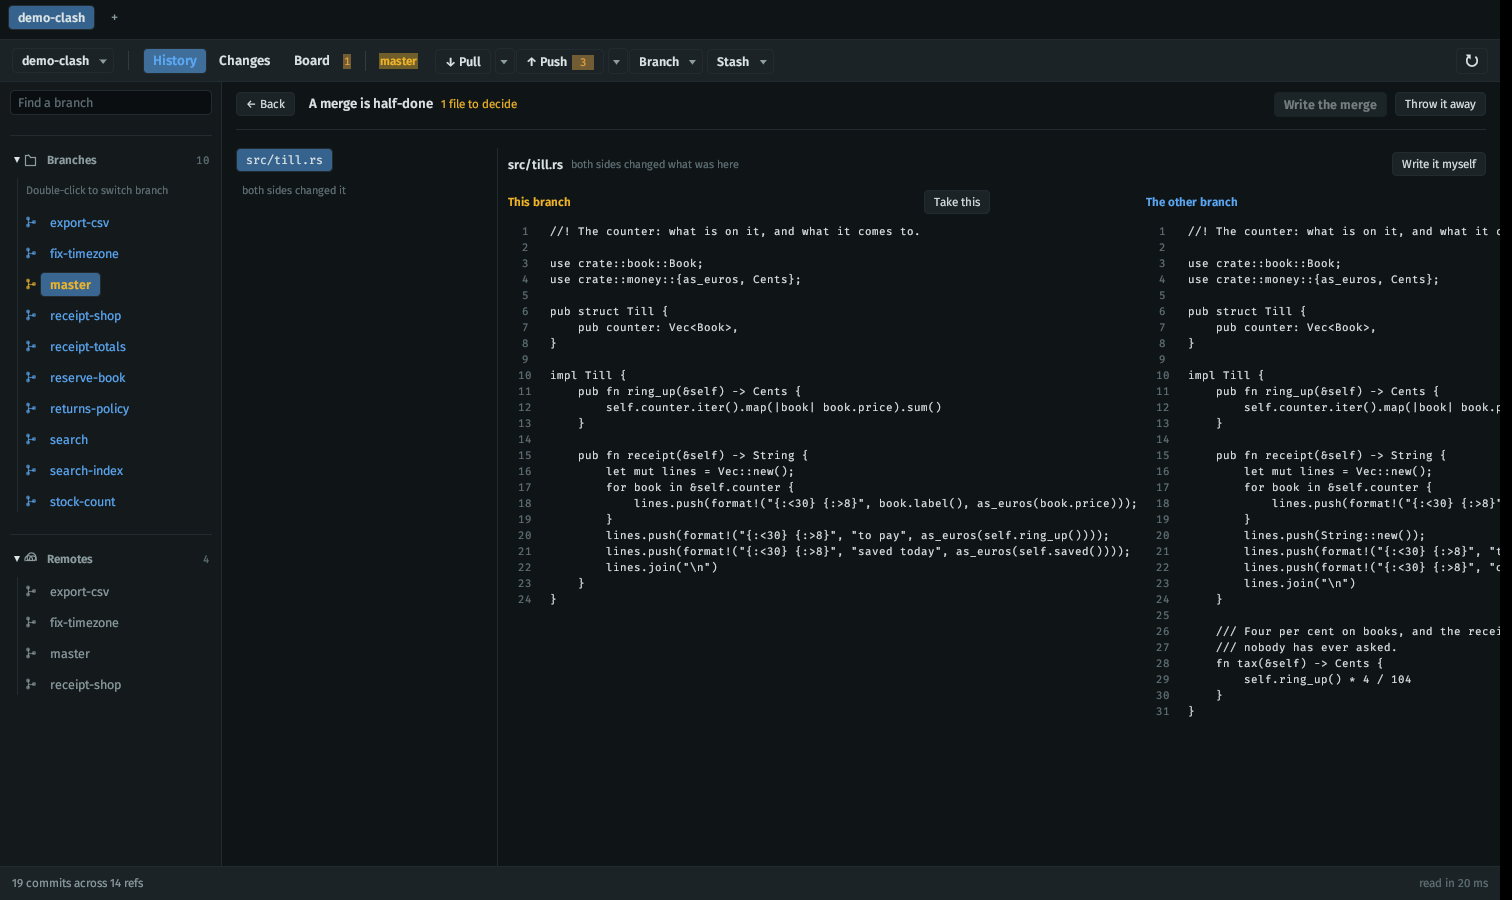
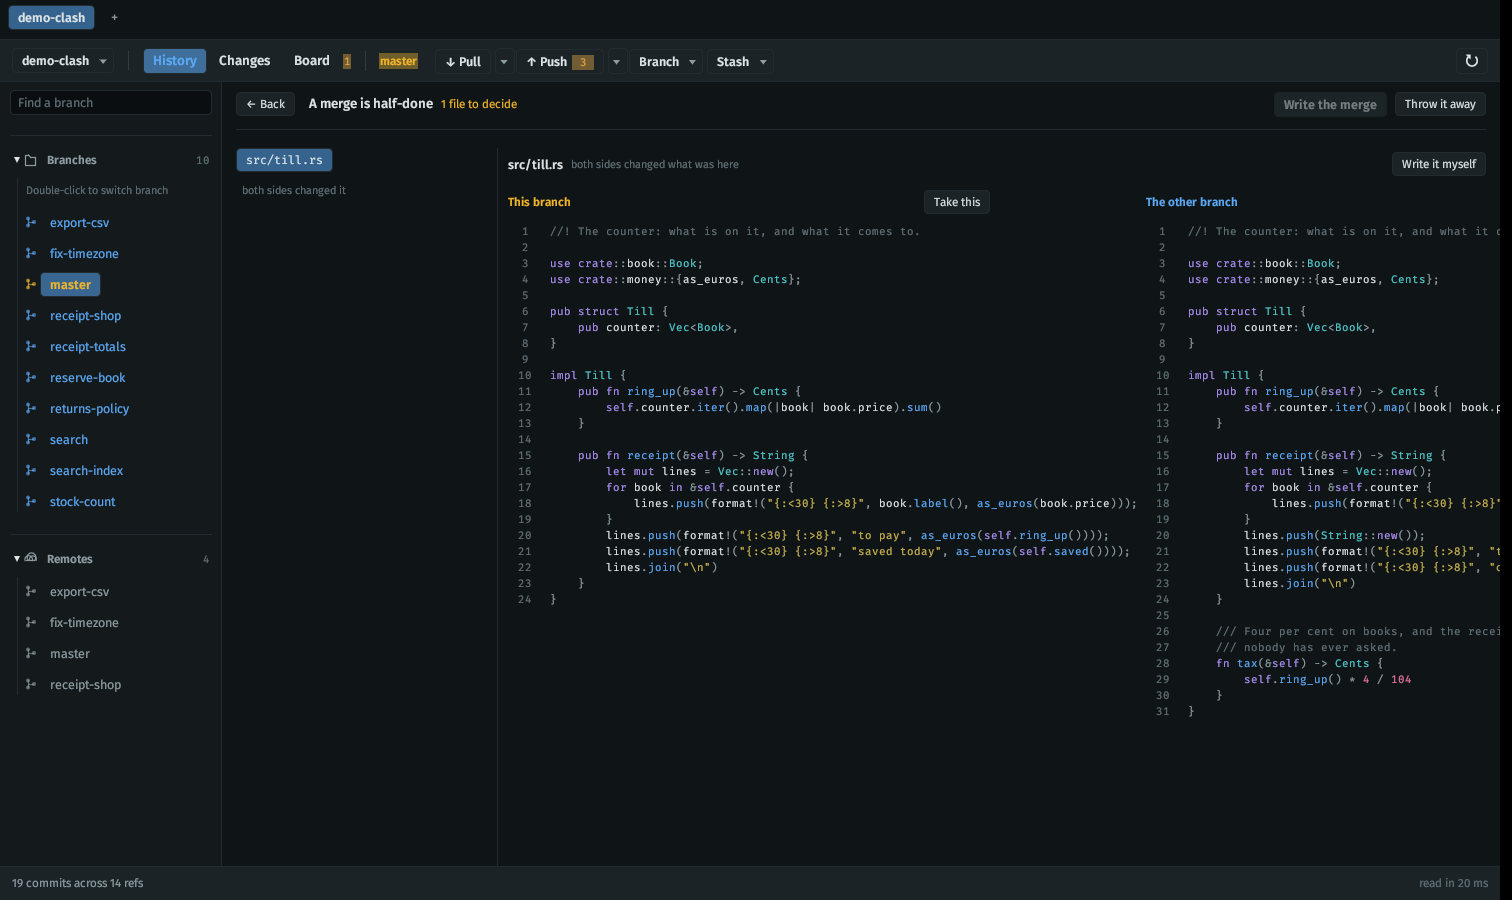
feat: the conflict screen shows code in colour like everywhere else
The two columns of a half-done merge were the one place in the program
where code came out in flat grey. It is also the screen where you are
reading two versions of the same file line against line, which is
exactly where colour helps most: a string that became a number, a
comment that moved, a call that is gone on one side.

- conflict_view::version reads the file for colour and lays each line
  out as one run, the same way the file and diff screens do
- it reads every frame rather than once, because the view keeps nothing
  between frames. That is the cheaper half of what the loop already
  does: every line is a widget whether or not anybody scrolls to it
- syntax::laid is the layout the three screens were each writing out,
  now written once
- the conflict screenshot in the README is taken again, with colour

diff --git a/crates/gitrust-ui/src/conflict_view.rs b/crates/gitrust-ui/src/conflict_view.rs
@@ -20,7 +20,7 @@
 use eframe::egui::{self, RichText};
 use gitrust_core::{Clash, Contents, Half, Side};
 
-use crate::theme;
+use crate::{syntax, theme};
 
 /// What has been asked for.
 pub enum Act {
@@ -310,14 +310,17 @@ fn sides(ui: &mut egui::Ui, half: Half, clash: &Clash, busy: bool, act: &mut Opt
                     });
                 });
                 ui.add_space(4.0);
-                version(ui, contents, label);
+                version(ui, contents, label, &clash.path);
             });
         }
     });
 }
 
 /// One side's version of the file, under whatever that side is called here.
-fn version(ui: &mut egui::Ui, contents: &Contents, label: &str) {
+///
+/// `path` is only for the colour: it is what says whether `#` starts a
+/// comment or an attribute.
+fn version(ui: &mut egui::Ui, contents: &Contents, label: &str, path: &str) {
     // Deliberately not scrolled on its own. Two panes scrolling separately
     // means two files you cannot line up, and lining them up is the whole of
     // what you are doing here.
@@ -337,6 +340,13 @@ fn version(ui: &mut egui::Ui, contents: &Contents, label: &str) {
             );
         }
         Contents::Text(text) => {
+            // Read for colour here, every frame, rather than once when the
+            // clash is loaded: this view keeps nothing between frames. It is
+            // the cheaper half of what this loop already does -- every line
+            // below is a widget of its own, laid out whether or not anybody
+            // scrolls down to it, and that is what costs.
+            let painted = syntax::read(text, path);
+
             egui::ScrollArea::vertical()
                 .id_salt(("version", label))
                 .max_height(ui.available_height() - 20.0)
@@ -359,11 +369,18 @@ fn version(ui: &mut egui::Ui, contents: &Contents, label: &str) {
                                         .color(theme::FAINT),
                                 ),
                             );
-                            ui.label(
-                                RichText::new(line)
-                                    .font(theme::mono(11.0))
-                                    .color(theme::TEXT),
-                            );
+                            match painted.get(index) {
+                                Some(pieces) => {
+                                    ui.label(syntax::laid(pieces, theme::mono(11.0)));
+                                }
+                                None => {
+                                    ui.label(
+                                        RichText::new(line)
+                                            .font(theme::mono(11.0))
+                                            .color(theme::TEXT),
+                                    );
+                                }
+                            }
                         });
                     }
                 });

diff --git a/crates/gitrust-ui/src/file_view.rs b/crates/gitrust-ui/src/file_view.rs
@@ -451,29 +451,15 @@ fn blame(ui: &mut egui::Ui, looking: &Looking, act: &mut Option<Act>) {
 }
 
 /// One line of a file, coloured if it has been read for colour.
-///
-/// Laid out as a single run with sections rather than as a label per piece:
-/// a file is thousands of lines and every widget costs, so a line is one
-/// widget here whether it has one colour in it or nine.
 fn code(ui: &mut egui::Ui, line: &str, pieces: Option<&Vec<syntax::Piece>>) {
-    let Some(pieces) = pieces else {
-        ui.label(RichText::new(line).font(theme::mono(11.5)).color(theme::TEXT));
-        return;
-    };
-
-    let mut job = egui::text::LayoutJob::default();
-    for piece in pieces {
-        job.append(
-            &piece.text,
-            0.0,
-            egui::TextFormat {
-                font_id: theme::mono(11.5),
-                color: piece.kind.color(),
-                ..Default::default()
-            },
-        );
+    match pieces {
+        Some(pieces) => {
+            ui.label(syntax::laid(pieces, theme::mono(11.5)));
+        }
+        None => {
+            ui.label(RichText::new(line).font(theme::mono(11.5)).color(theme::TEXT));
+        }
     }
-    ui.label(job);
 }
 
 fn when(seconds: i64) -> String {

diff --git a/crates/gitrust-ui/src/syntax.rs b/crates/gitrust-ui/src/syntax.rs
@@ -586,3 +586,24 @@ mod tests {
         assert!(line.iter().any(|(t, k)| t == "1_000.5" && *k == Kind::Number), "{line:?}");
     }
 }
+
+/// Lays one line of pieces out as a single run.
+///
+/// One widget a line whether the line has one colour in it or nine. The
+/// screens that show code show whole files, and a label a piece is the
+/// difference between a file that opens and a file that takes a moment to.
+pub fn laid(pieces: &[Piece], font: eframe::egui::FontId) -> eframe::egui::text::LayoutJob {
+    let mut job = eframe::egui::text::LayoutJob::default();
+    for piece in pieces {
+        job.append(
+            &piece.text,
+            0.0,
+            eframe::egui::TextFormat {
+                font_id: font.clone(),
+                color: piece.kind.color(),
+                ..Default::default()
+            },
+        );
+    }
+    job
+}
